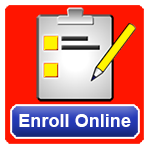
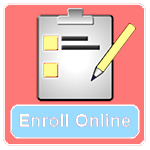
changed colors, changed font, adjusted photos

diff --git a/css/styles.css b/css/styles.css
@@ -143,7 +143,7 @@ footer {
 	height: 500px; 
 }
 #info h2 {
-	color: blue; 
+	color: #9ADCFF;
 	padding: 5px; 
 	font-size: 40px; 
 	padding: 1em; 
@@ -167,7 +167,7 @@ footer {
 #gallery h2 {
 	text-align: center; 
 	font-size: 40px;
-	color: blue; 
+	color: #FF7878; 
 	padding: 1em; 
 }
 table {
@@ -317,4 +317,7 @@ td:hover {
 	width: 15%; 
 	float: left; 
 	margin: 0 5%; 
+}
+body {
+	font-family: 'Quicksand', sans-serif;
 }
